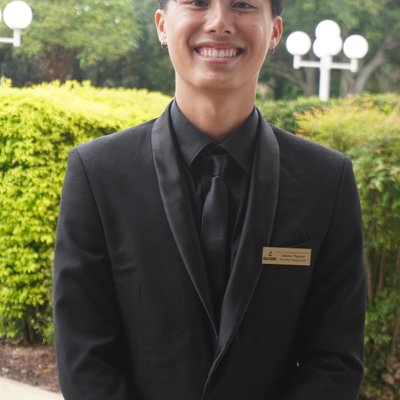
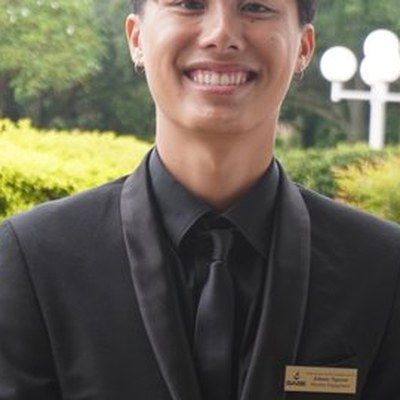
entry anims + face crop + remove dot

diff --git a/streamlit_app/app.py b/streamlit_app/app.py
@@ -418,35 +418,48 @@ def inject_css() -> None:
            between samples doesn't snap-cut. No animation-fill-mode set,
            so default opacity is 1 if animation never fires. */
         @keyframes smoothFade {{
-            from {{ opacity: 0; transform: translateY(3px); }}
+            from {{ opacity: 0; transform: translateY(8px); }}
             to {{ opacity: 1; transform: translateY(0); }}
         }}
+        [data-testid="stPyplotChart"],
         [data-testid="stPyplotChart"] img,
+        [data-testid="stImage"],
         [data-testid="stImage"] img {{
-            animation: smoothFade 0.42s ease-out;
+            animation: smoothFade 0.5s cubic-bezier(0.16, 1, 0.3, 1);
         }}
         .pred-reveal {{
-            animation: smoothFade 0.32s ease-out;
+            animation: smoothFade 0.42s cubic-bezier(0.16, 1, 0.3, 1);
         }}
 
-        /* Live pulse dot — signals the demo is interactive */
-        .live-dot {{
-            display: inline-block;
-            width: 8px;
-            height: 8px;
-            border-radius: 50%;
-            background: {ACCENT};
-            margin-right: 0.55rem;
-            vertical-align: middle;
-            position: relative;
-            top: -2px;
-            box-shadow: 0 0 0 0 rgba(95, 162, 56, 0.65);
-            animation: livePulse 2.1s ease-out infinite;
+        /* Entry animations — safe pattern: animation-fill-mode: backwards
+           means elements default to visible if animation fails, only invisible
+           during the delay (which is brief). No catch-all selectors. */
+        @keyframes riseIn {{
+            from {{ opacity: 0; transform: translateY(16px); }}
+            to {{ opacity: 1; transform: translateY(0); }}
         }}
-        @keyframes livePulse {{
-            0% {{ box-shadow: 0 0 0 0 rgba(95, 162, 56, 0.65); }}
-            70% {{ box-shadow: 0 0 0 10px rgba(95, 162, 56, 0); }}
-            100% {{ box-shadow: 0 0 0 0 rgba(95, 162, 56, 0); }}
+        .hero-card {{
+            animation: riseIn 0.55s cubic-bezier(0.16, 1, 0.3, 1) backwards;
+        }}
+        [data-testid="stMetric"] {{
+            animation: riseIn 0.5s cubic-bezier(0.16, 1, 0.3, 1) backwards;
+        }}
+        [data-testid="stMetric"]:nth-of-type(1) {{ animation-delay: 80ms; }}
+        [data-testid="stMetric"]:nth-of-type(2) {{ animation-delay: 130ms; }}
+        [data-testid="stMetric"]:nth-of-type(3) {{ animation-delay: 180ms; }}
+        [data-testid="stMetric"]:nth-of-type(4) {{ animation-delay: 230ms; }}
+        [data-testid="stMetric"]:nth-of-type(5) {{ animation-delay: 280ms; }}
+        [data-testid="stMetric"]:nth-of-type(6) {{ animation-delay: 330ms; }}
+        .method-card {{
+            animation: riseIn 0.5s cubic-bezier(0.16, 1, 0.3, 1) backwards;
+        }}
+        .method-card:nth-of-type(1) {{ animation-delay: 60ms; }}
+        .method-card:nth-of-type(2) {{ animation-delay: 120ms; }}
+        .method-card:nth-of-type(3) {{ animation-delay: 180ms; }}
+        .method-card:nth-of-type(4) {{ animation-delay: 240ms; }}
+        .footer-card {{
+            animation: riseIn 0.55s cubic-bezier(0.16, 1, 0.3, 1) backwards;
+            animation-delay: 100ms;
         }}
 
         /* Card hover lift */
@@ -579,7 +592,7 @@ def render_stats(comparison: dict) -> None:
 
 
 def render_demo(model, stats, labels) -> None:
-    st.markdown('<h3 style="margin-top:0.25rem;"><span class="live-dot"></span>Live Classification</h3>', unsafe_allow_html=True)
+    st.markdown("### Live Classification")
     samples = sorted(SAMPLES_DIR.glob("*.npy")) if SAMPLES_DIR.exists() else []
 
     source = st.radio(
